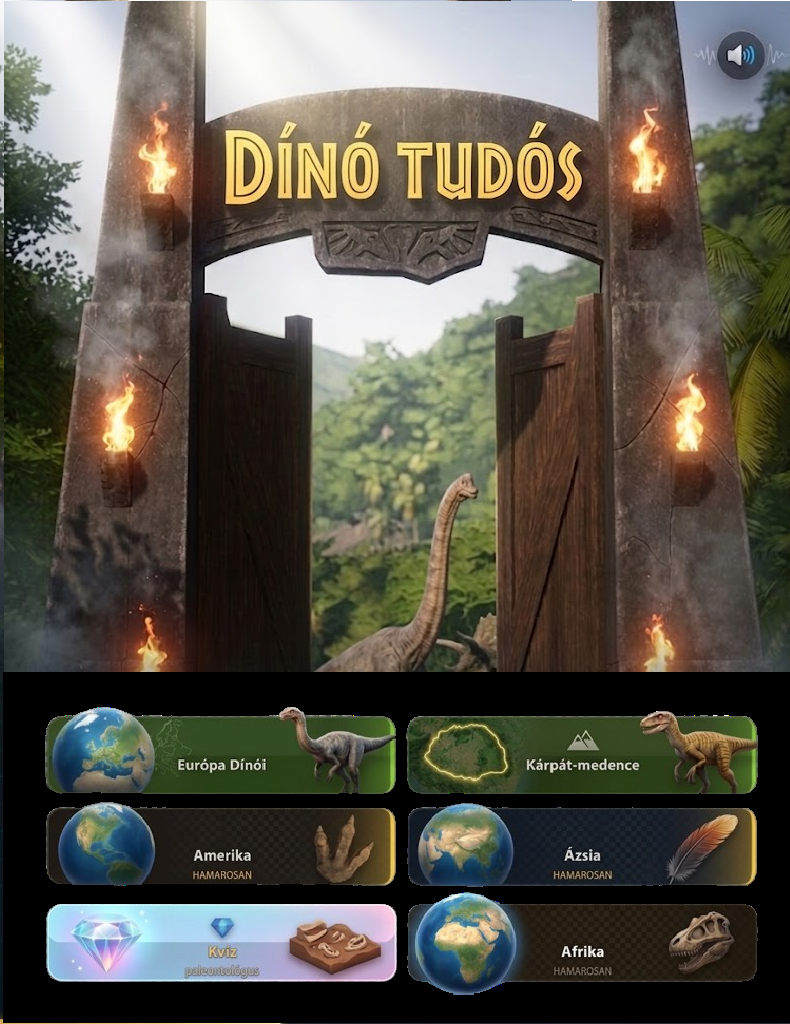
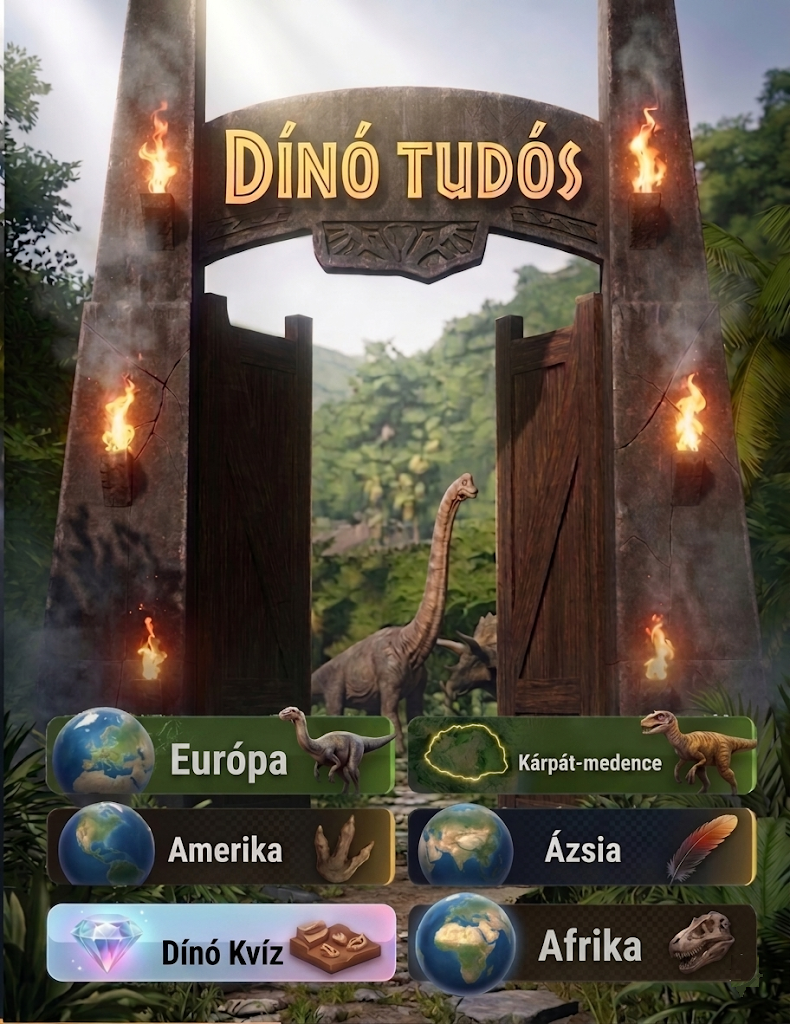
bg zene és bg kép módosítás

diff --git a/App.js b/App.js
@@ -444,10 +444,9 @@ function QuizGame({ onBack }) {
   const [adFiftyFiftyUsedThisQuestion, setAdFiftyFiftyUsedThisQuestion] = useState(false);
   const [watchingAd, setWatchingAd] = useState(false);
 
-  // Belépő hang + indító háttérzene a játék elején
+  // Belépő hang a játék elején (a háttérzenét a szint-alapú effekt indítja, ami felülírja a főtémát)
   useEffect(() => {
     playQuizSfx('letsPlay');
-    return () => { stopQuizBgMusic(); };
   }, []);
 
   // Háttérzene a kérdés nehézségi szintje alapján, amíg játszunk
@@ -848,6 +847,13 @@ export default function App() {
       dino.megtalalas_helye?.toLowerCase().includes(q);
     return matchesPeriod && matchesSearch;
   });
+
+  // Háttér főtéma: mindenhol szól hurkolva, KIVÉVE a kvíz közben (ott a QuizGame saját zenéje veszi át).
+  useEffect(() => {
+    if (view !== 'quiz') {
+      playQuizBgMusic('mainTheme', { loop: true, volume: 0.4 });
+    }
+  }, [view]);
 
   const swipeRef = useRef((dir) => {
     const toValue = dir === 'next' ? -SCREEN_WIDTH * 1.5 : SCREEN_WIDTH * 1.5;